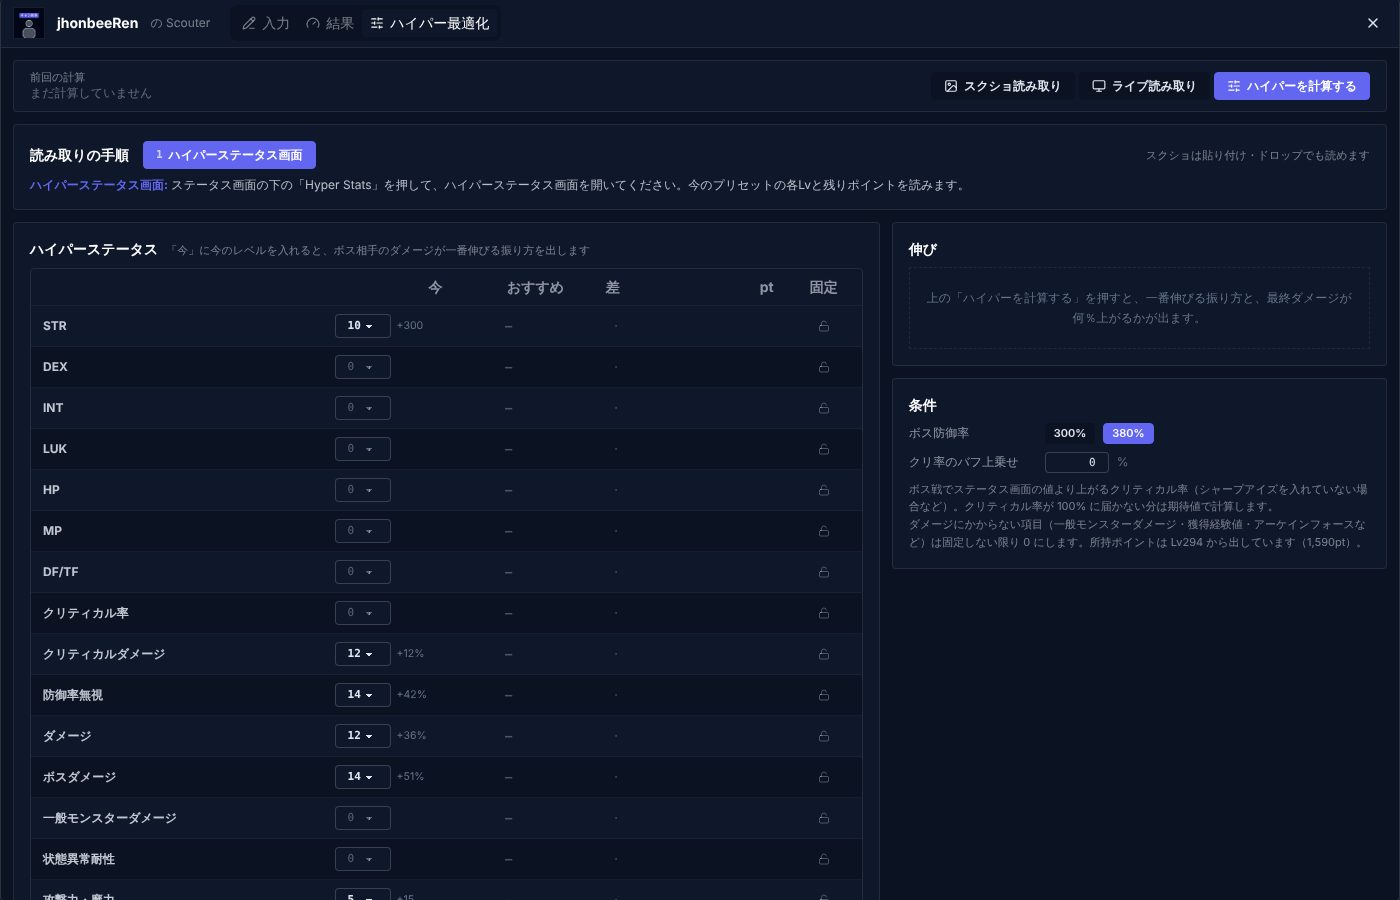
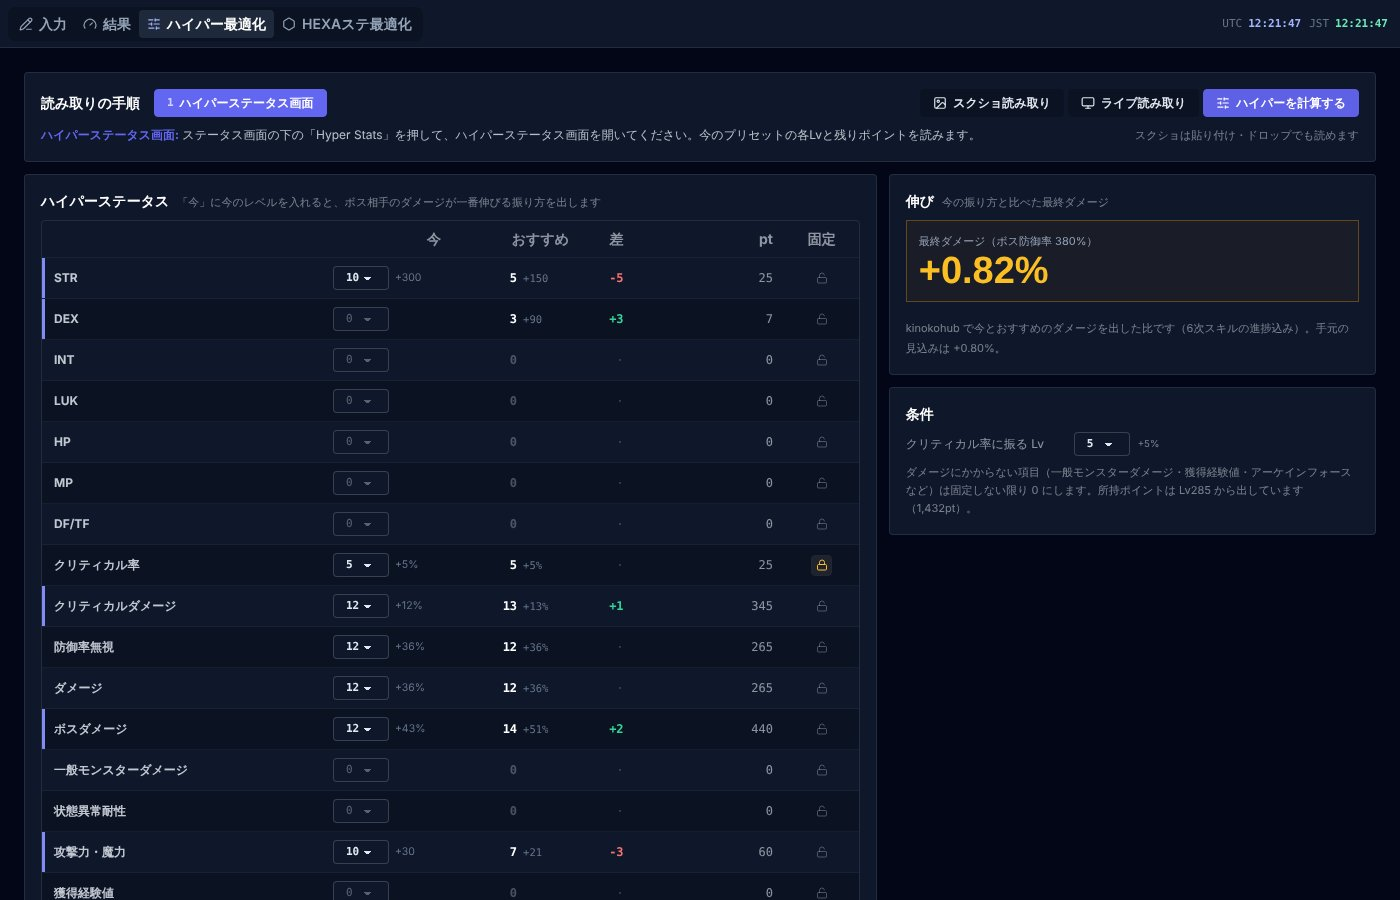
Guide: ハイパー最適化のスクショを撮り直し、HEXAステ最適化のスクショを追加
Claude-Session: https://claude.ai/code/session_01VfuuumRPoSNKE97S5paGtD

diff --git a/public/guide.js b/public/guide.js
@@ -53,7 +53,8 @@ const guide = {
                       '「ハイパー最適化」で、ボス相手のダメージが一番伸びるハイパーステータスの振り方を計算できます。クリティカル率は右の「クリティカル率に振る Lv」で自分で決め、その分を差し引いた残りのポイントで計算します（ボス防御率は 380%）。先に「入力」で「計算する」をしておくと、計算元のスペック効率（職業のスキルの防御率無視なども込み）で選びます。',
                       '「HEXAステ最適化」で、今のHEXAステータスの種類と Lv を入れて「HEXAステを計算する」を押すと、Lv はそのまま種類だけ選び直すなら各枠に何を入れると一番伸びるかが出ます。先に「入力」で「計算する」をしておくと、計算元のスペック効率で選びます。'],
               shots: [['05-scouter-bosscut', '結果タブ。左が HEXA換算、右がボスカット表'],
-                      ['06-scouter-hyper', 'ハイパー最適化タブ。今のレベルを入れて「ハイパーを計算する」']],
+                      ['06-scouter-hyper', 'ハイパー最適化タブ。今のレベルを入れて「ハイパーを計算する」。クリティカル率は右の条件で Lv を決める'],
+                      ['12-scouter-hexastat', 'HEXAステ最適化タブ。今の種類と Lv を入れて「HEXAステを計算する」と、右の列に各枠のおすすめが出る']],
               tip: '計算は kinokohub（MapleScouter 互換の換算）に GMS・Heroic の補正を足した推定値です。MapleScouter との差はおおむね ±0.5%。' },
             { key: 'cheatsheet', name: 'Cheat Sheet', one: 'ボスの入場レベル・必要フォース、レベル差やフォース差での与ダメ、シンボル、結晶価格をまとめた早見表です。',
               steps: ['サイドバーから開くだけです。見たい表までスクロールします。'],
